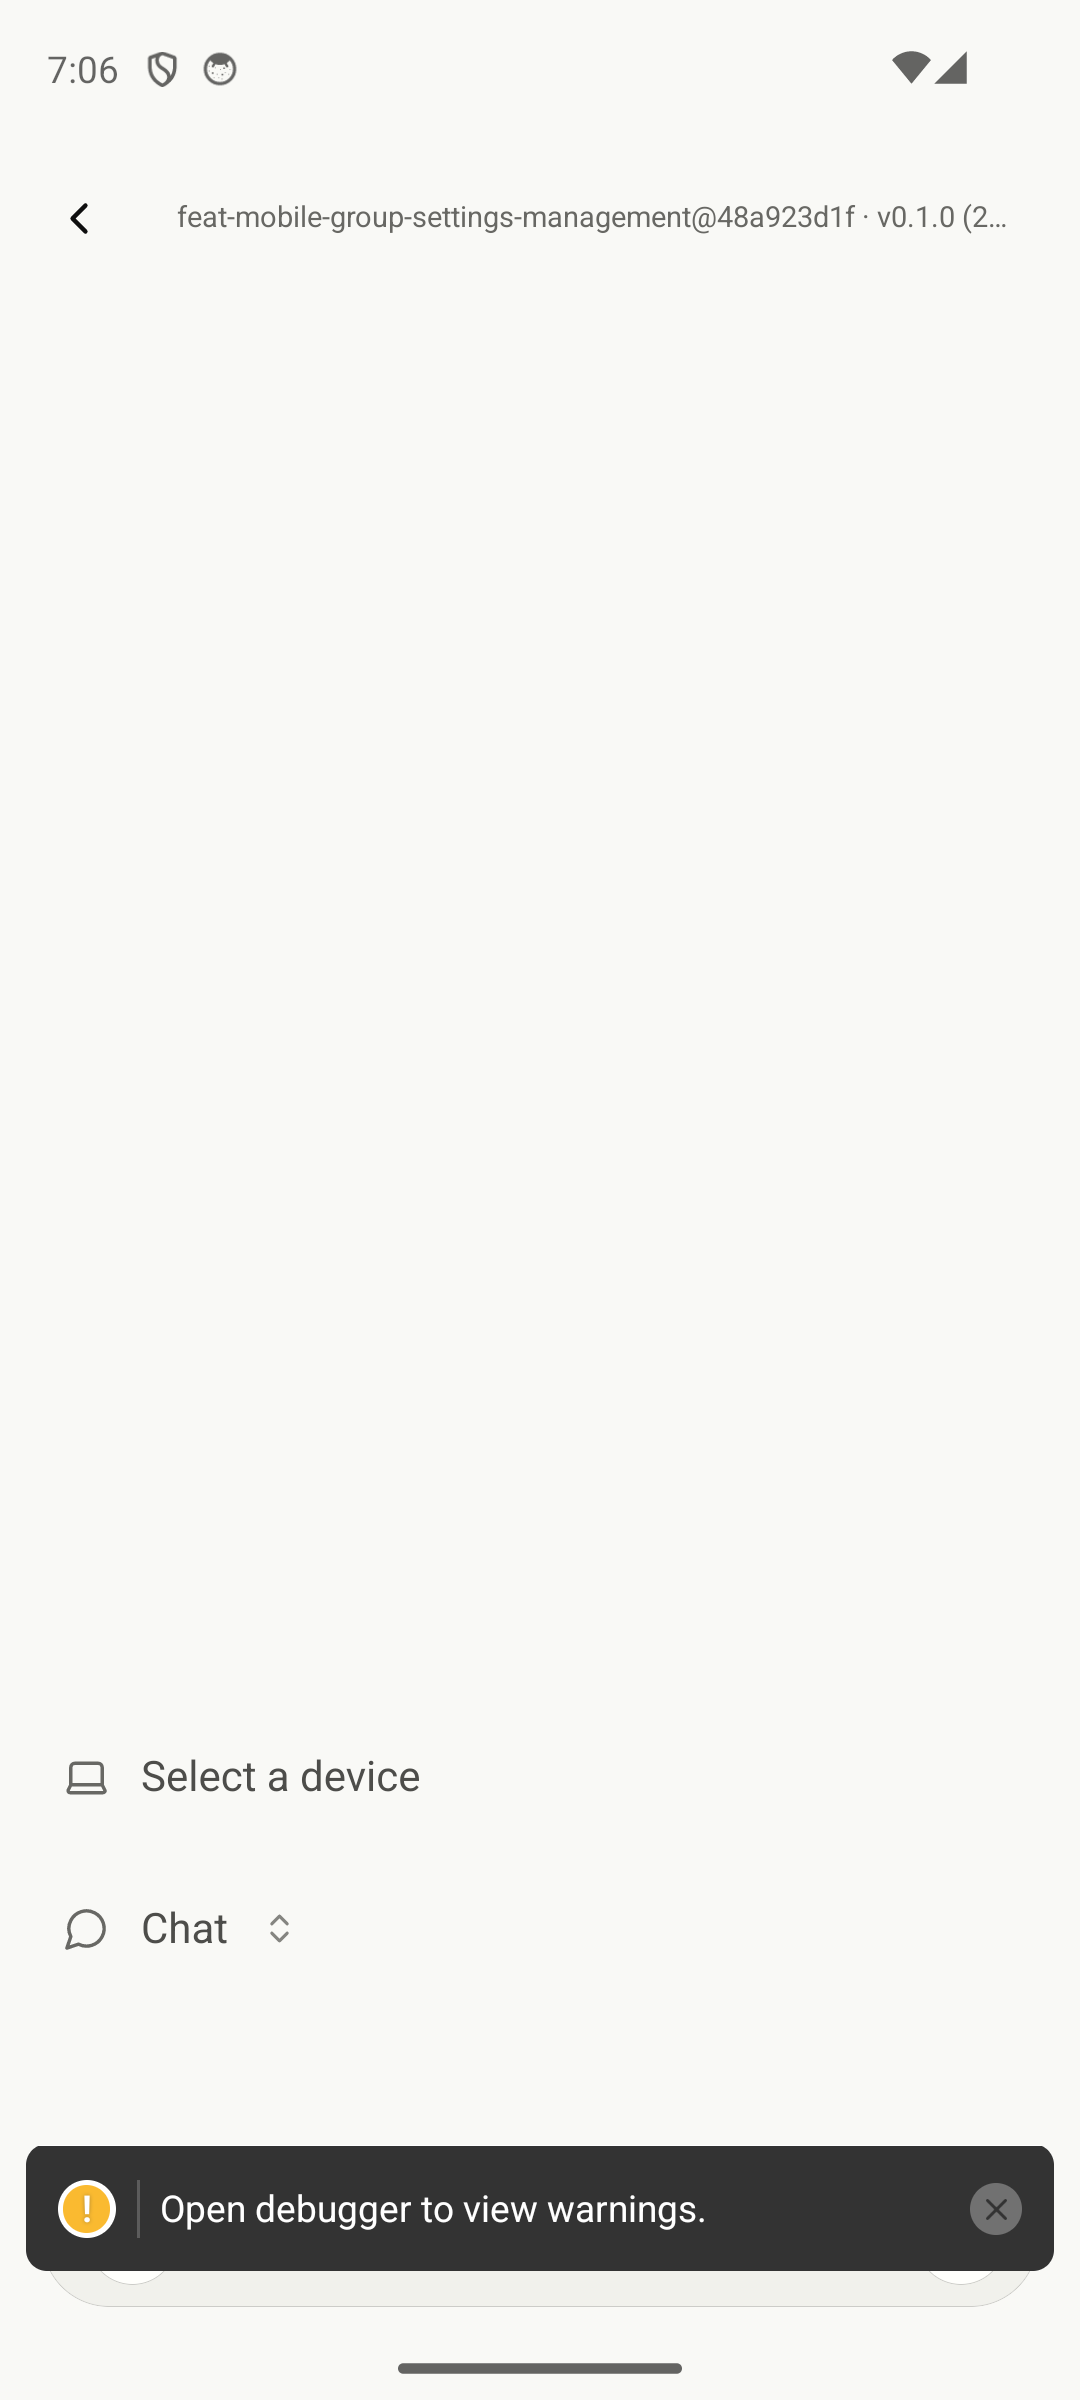
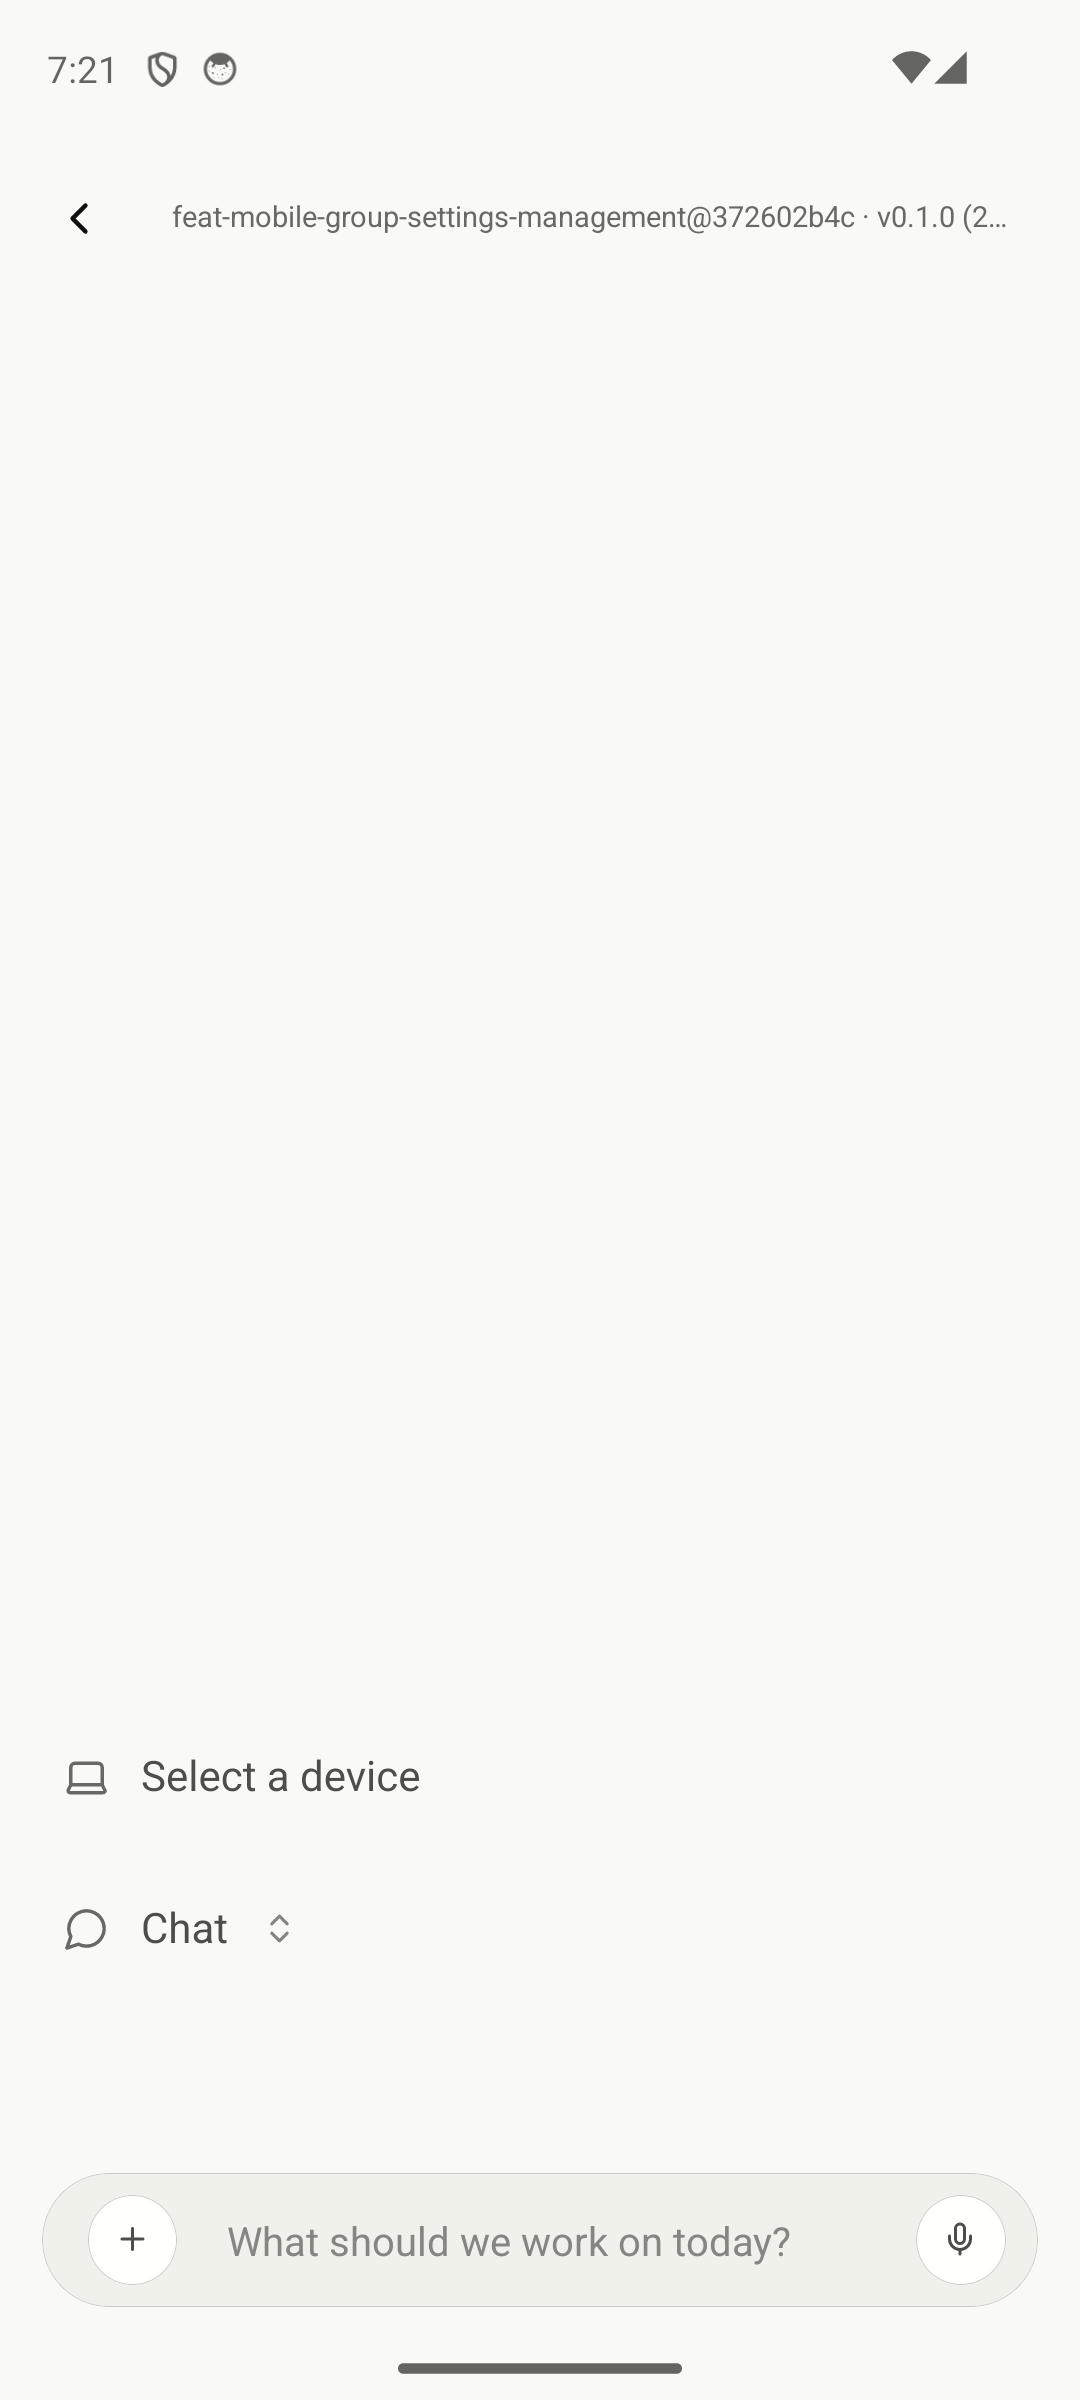
docs(mobile): 更新对齐主干后的验收截图

Changed region(s): [[0.0, 0.875, 0.9778, 0.9688], [0.1528, 0.0625, 0.7944, 0.0938]]

diff --git a/docs/assets/mobile-group-settings/README.md b/docs/assets/mobile-group-settings/README.md
@@ -1,12 +1,12 @@
 # 移动端群设置验收截图
 
 2026-10-12，Android AVD `Cindy_Teammate_PR5710 / emulator-5562`，Global Debug。
-代码提交 `48a923d1f`；后续截图提交仅增加本目录，不修改应用代码。
+代码提交 `372602b4c`；对齐最新 main 后补拍，后续截图提交仅更新本目录，不修改应用代码。
 工作区 `Cindy-feat-mobile-group-settings-management`，Metro 来自该工作区 `apps/mobile`、端口 8081。
 
 - [已连接浅色](android-connected-light.png) / [已连接深色](android-connected-dark.png)：设备名、弱化状态文字与绿点；名称和添加入口 enabled。
 - [已断开深色](android-disconnected-dark.png)：名称、两条实际成员行和添加入口 disabled，重连入口 enabled；恢复网络后重新 Connected，名称/添加可用。
-- [开发构建标记](android-build-label.png)：实际运行页面显示该分支与 `48a923d1f`。
+- [开发构建标记](android-build-label.png)：实际运行页面显示该分支与 `372602b4c`。
 
 原始截图由 `adb exec-out screencap -p` 采集，没有图像编辑。
 安卓正常 Gradle Debug 构建和保留数据安装完成；APK 指纹 `bb9b4db1efe43a00f6214348e8b544c5b234d26a`，与 Expo 实际构建使用的 `createFingerprintForBuildAsync` 独立重算一致。
